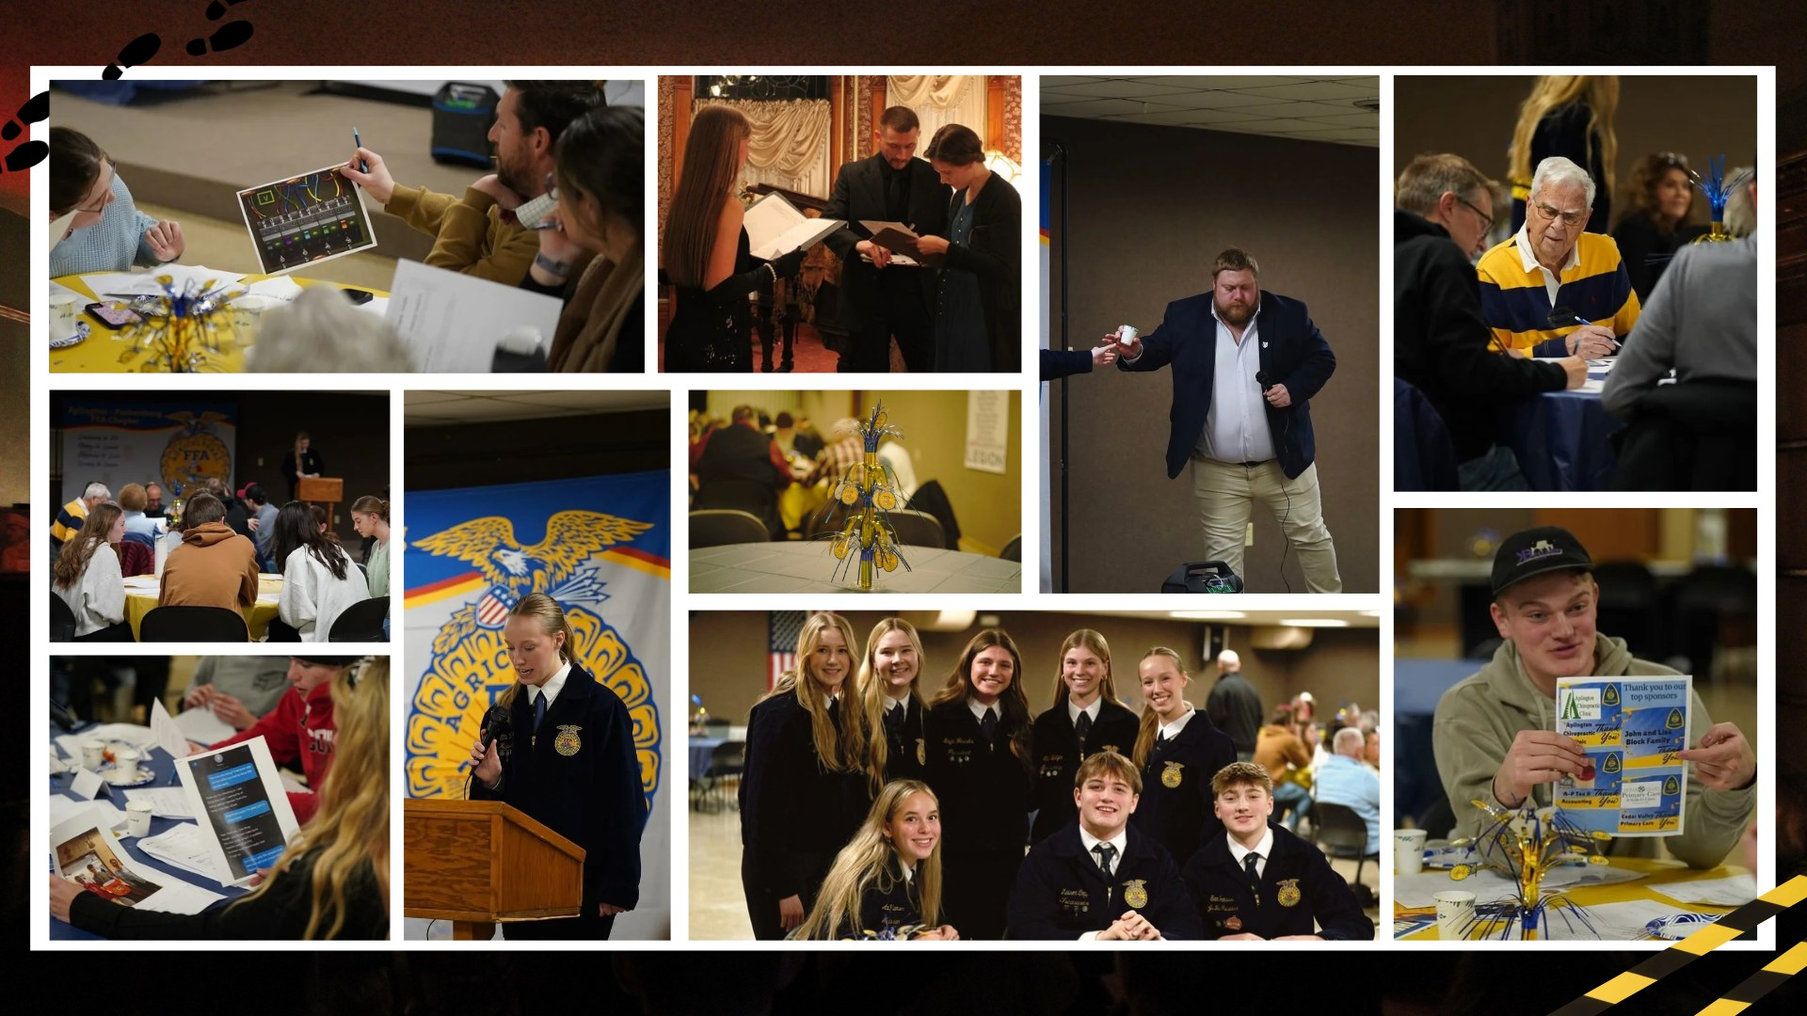
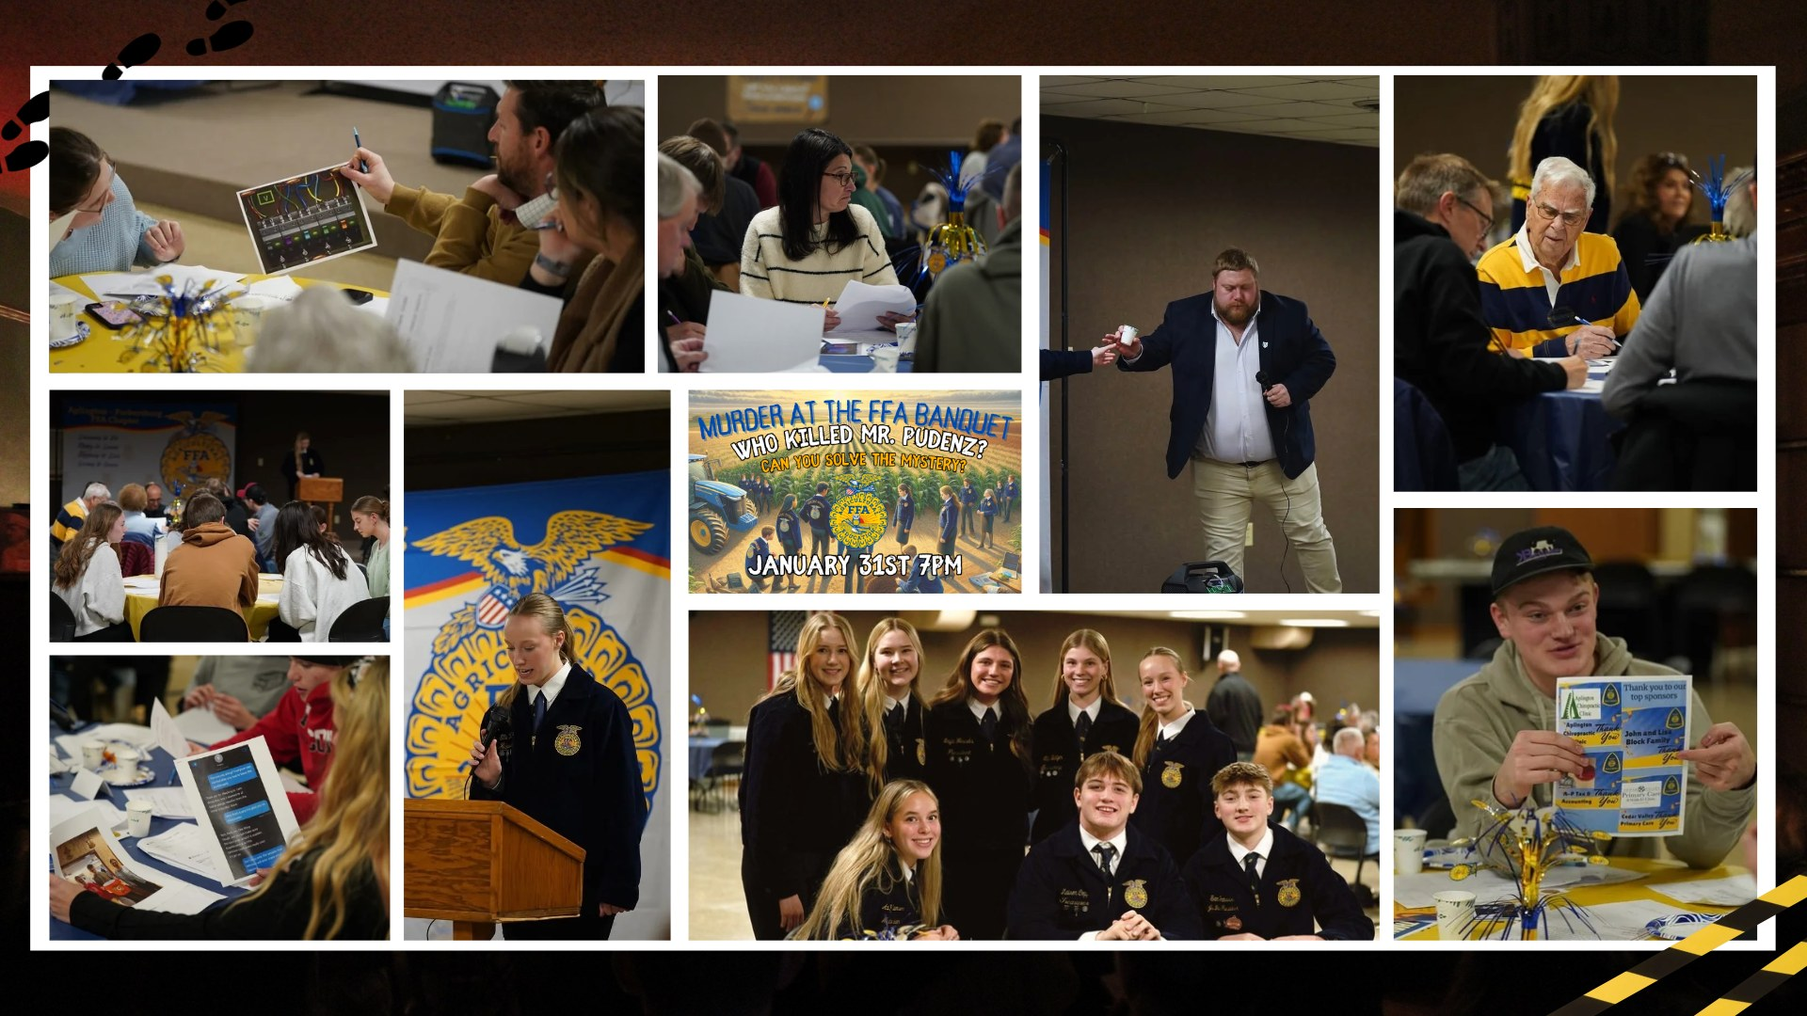
n

Changed region(s): [[0.3438, 0.0611, 0.5938, 0.6111]]

diff --git a/assets/css/style.css b/assets/css/style.css
@@ -555,7 +555,7 @@ main > section:first-child > :not(.corner-swirls) { position: relative; z-index:
   opacity: 0.85;
 }
 .swirl-r { left: auto; right: 0; transform: scaleX(-1); }
-.swirl svg { width: 100%; height: auto; overflow: visible; transform-origin: 40% 55%; animation: swirl-float 9s ease-in-out 1.8s infinite alternate; }
+.swirl svg { width: 100%; height: auto; overflow: visible; animation: swirl-float 9s ease-in-out 2.4s infinite alternate; }
 .swirl-r svg { animation-delay: 2.4s; animation-direction: alternate-reverse; }
 .swirl path { stroke-width: 2.6; }
 .swirl .sw-a { stroke: var(--peri-300); stroke-dasharray: 1; stroke-dashoffset: 0; animation: swirl-draw 2s var(--ease) 0.2s both; }
@@ -565,11 +565,14 @@ main > section:first-child > :not(.corner-swirls) { position: relative; z-index:
 .swirl .sw-dot-3 { animation-delay: 2s; }
 .swirl .sw-star { fill: var(--peri-400); stroke: none; transform-box: fill-box; transform-origin: center; animation: swirl-twinkle 3.6s ease-in-out 0.5s infinite; }
 @keyframes swirl-draw { from { stroke-dashoffset: 1; opacity: 0; } 15% { opacity: 1; } to { stroke-dashoffset: 0; opacity: 1; } }
-@keyframes swirl-float { from { transform: rotate(-3deg) translateY(0); } to { transform: rotate(3deg) translateY(6px); } }
+/* a gentle up-and-down drift only: it starts exactly where the swirl already is, so nothing jumps or tilts */
+@keyframes swirl-float { from { transform: translateY(0); } to { transform: translateY(7px); } }
 @keyframes swirl-twinkle { 0%, 100% { opacity: 0.35; transform: scale(0.85); } 50% { opacity: 1; transform: scale(1.15); } }
 @media (max-width: 560px) { .swirl { width: 84px; opacity: 0.7; } }
 /* The Work page header is short, so its swirls are smaller to fit */
-.page-hero-compact .swirl { width: 96px; top: calc(var(--header-h) + 6px); }
+/* Work page: bigger swirls */
+.page-hero-compact { padding-bottom: max(1.25rem, calc(clamp(140px, 13vw, 190px) * 0.682 - 64px)); }   /* room for the bigger swirls */
+.page-hero-compact .swirl { width: clamp(140px, 13vw, 190px); top: calc(var(--header-h) + 4px); }
 
 /* 7c. About page tests: lavender accent, stat counters, tilt cards, footprint trail */
 :root {
@@ -652,7 +655,6 @@ main > section:first-child > :not(.corner-swirls) { position: relative; z-index:
 /* The page content sits one layer above the footprints, so a print that reaches a card or text block passes behind it */
 .page-work main { position: relative; }   /* the footprint layer is sized to the whole page */
 .page-work main > section { position: relative; z-index: 1; }
-.page-work main > section.section > .container { background: var(--bg); }   /* solid, so footprints disappear behind the content instead of showing through the text */
 @media (max-width: 700px) { .trail { display: none; } }
 .print { position: absolute; fill: var(--lav-400); opacity: 0; transform: translate(-50%, -50%) scale(0.4); transition: opacity 0.5s ease, transform 0.5s var(--ease); }
 .print.on { opacity: 0.6; transform: var(--t, translate(-50%, -50%)); }
@@ -824,7 +826,8 @@ main > section:first-child > :not(.corner-swirls) { position: relative; z-index:
 /* "Let's connect" box: a bright line runs around the edge and fades behind itself */
 .cta-panel[data-trace] { position: relative; }
 .trace { position: absolute; inset: 0; width: 100%; height: 100%; overflow: visible; pointer-events: none; }
-.trace rect { animation: trace-run 7s linear infinite; filter: drop-shadow(0 0 6px rgba(255, 255, 255, 0.95)); }
+.trace { filter: drop-shadow(0 0 5px rgba(255, 255, 255, 0.85)); }
+.trace rect { animation: trace-run 7s linear infinite; }
 @keyframes trace-run { from { stroke-dashoffset: var(--l); } to { stroke-dashoffset: var(--e); } }
 
 /* 9. About ----------------------------------------------------------------- */
@@ -1320,3 +1323,43 @@ a.contact-card:hover { color: inherit; border-color: var(--peri-300); box-shadow
   text-align: center;
 }
 .notfound .big { margin: 0; font-size: clamp(5rem, 18vw, 9rem); font-weight: 800; line-height: 1; color: var(--peri-300); }
+
+/* 12b. Contact page: more color --------------------------------------------- */
+.page-contact .page-hero { position: relative; overflow: hidden; background: linear-gradient(180deg, var(--peri-50), #fbf8ff 70%, var(--bg)); }
+.page-contact .page-hero h1 { max-width: none; }
+.page-contact .page-hero .lead { max-width: none; }
+.page-contact .contact-card { position: relative; overflow: hidden; border: 1px solid transparent; }
+.page-contact .contact-card::before {            /* colored bar across the top */
+  content: ""; position: absolute; left: 0; right: 0; top: 0; height: 5px; background: var(--cc, var(--peri-600));
+}
+.page-contact .contact-card::after {             /* big soft circle in the corner */
+  content: ""; position: absolute; right: -46px; bottom: -46px; width: 150px; height: 150px; border-radius: 50%;
+  background: var(--cc, var(--peri-600)); opacity: 0.12; transition: transform 0.5s var(--ease), opacity 0.3s; pointer-events: none;
+}
+.page-contact .contact-card:hover::after { transform: scale(1.35); opacity: 0.18; }
+.page-contact .contact-card > * { position: relative; z-index: 1; }
+.page-contact .contact-card h2 { color: var(--cc-ink, var(--peri-700)); }
+.page-contact .contact-card .icon-box { width: 52px; height: 52px; border-radius: 16px; color: var(--cc-ink); background: #fff; box-shadow: 0 6px 16px -8px var(--cc); transform: rotate(-6deg); transition: transform 0.4s var(--ease); }
+.page-contact .contact-card:hover .icon-box { transform: rotate(6deg) scale(1.1); }
+.page-contact .contact-card .go { color: var(--cc-ink); }
+.cc-email    { --cc: #5a66d6; --cc-ink: #4651b8; background: linear-gradient(160deg, #eef0ff, #ffffff 70%); border-color: #d9ddfb; }
+.cc-linkedin { --cc: #2d9bd6; --cc-ink: #17719f; background: linear-gradient(160deg, #e6f5fd, #ffffff 70%); border-color: #cbe8f7; }
+.cc-resume   { --cc: #9a7be0; --cc-ink: #6f4fc2; background: linear-gradient(160deg, #f1ebff, #fff4f9 85%); border-color: #e1d6fa; }
+.page-contact .cc-email .btn-outline { border-color: #b9c0f7; }
+
+.details-band { position: relative; overflow: hidden; background: linear-gradient(180deg, #f7f7fd, #fbf6ff); }
+.details-band::before, .details-band::after { content: ""; position: absolute; border-radius: 50%; pointer-events: none; }
+.details-band::before { width: 280px; height: 280px; left: -110px; top: -90px; background: #e9e4ff; opacity: 0.7; }
+.details-band::after { width: 200px; height: 200px; right: -70px; bottom: -70px; background: #ffe3ee; opacity: 0.7; }
+.details-band .container { position: relative; z-index: 1; }
+.detail-tiles { list-style: none; margin: 0; padding: 0; display: grid; gap: 1.25rem; grid-template-columns: 1fr; }
+@media (min-width: 760px) { .detail-tiles { grid-template-columns: repeat(3, 1fr); } }
+.dt { position: relative; display: grid; gap: 0.3rem; align-content: start; padding: 1.5rem 1.4rem; border-radius: var(--radius-lg); border: 1px solid var(--dt-line); background: var(--dt-bg); transition: transform 0.3s var(--ease), box-shadow 0.3s; }
+.dt:hover { transform: translateY(-4px) rotate(-0.6deg); box-shadow: var(--shadow); }
+.dt .icon-box { width: 46px; height: 46px; border-radius: 14px; background: #fff; color: var(--dt-ink); box-shadow: 0 6px 14px -8px var(--dt-ink); margin-bottom: 0.6rem; transform: rotate(-6deg); transition: transform 0.4s var(--ease); }
+.dt:hover .icon-box { transform: rotate(6deg) scale(1.1); }
+.dt-label { font-size: var(--fs-sm); font-weight: 700; letter-spacing: 0.06em; text-transform: uppercase; color: var(--dt-ink); }
+.dt strong { font-size: var(--fs-md); font-weight: 600; color: var(--ink); line-height: 1.4; }
+.dt-place   { --dt-bg: #fff1f6; --dt-line: #fbd5e4; --dt-ink: #c2477a; }
+.dt-looking { --dt-bg: #eef0ff; --dt-line: #d9ddfb; --dt-ink: #4651b8; }
+.dt-when    { --dt-bg: #e9f8f1; --dt-line: #c7ecdc; --dt-ink: #1f8a63; }

diff --git a/contact.html b/contact.html
@@ -17,7 +17,7 @@
   <link rel="stylesheet" href="assets/css/style.css">
   <script>document.documentElement.className = "js";</script>
 </head>
-<body>
+<body class="page-contact">
   <a class="skip-link" href="#main">Skip to content</a>
 
   <header class="site-header">
@@ -55,12 +55,13 @@
       <div class="container">
         <p class="label">Contact</p>
         <h1>Let’s connect</h1>
+        <p class="lead">Internships, volunteer work, story ideas or just a hello. I’d love to hear from you.</p>
       </div>
     </section>
 
     <section class="section" style="padding-top:1rem" aria-label="Ways to reach me">
       <div class="container contact-grid">
-        <div class="card contact-card" data-reveal>
+        <div class="card contact-card cc-email" data-reveal>
           <span class="icon-box"><svg viewBox="0 0 24 24" fill="none" stroke="currentColor" stroke-width="2" stroke-linecap="round" stroke-linejoin="round" aria-hidden="true"><rect x="3" y="5" width="18" height="14" rx="2"/><path d="M3 7l9 6 9-6"/></svg></span>
           <h2>Email</h2>
           <p class="value"><a href="mailto:emma.haan2530@gmail.com" data-site="email" data-site-text>emma.haan2530@gmail.com</a></p>
@@ -69,13 +70,13 @@
             <button class="btn btn-small btn-outline" type="button" data-copy="email"><svg viewBox="0 0 24 24" fill="none" stroke="currentColor" stroke-width="2" stroke-linecap="round" stroke-linejoin="round" aria-hidden="true"><rect x="9" y="9" width="12" height="12" rx="2"/><path d="M5 15H4a1 1 0 0 1-1-1V4a1 1 0 0 1 1-1h10a1 1 0 0 1 1 1v1"/></svg> Copy</button>
           </div>
         </div>
-        <a class="card contact-card" href="https://www.linkedin.com/in/emma-haan-779314435/" data-site="linkedin" target="_blank" rel="noopener" data-reveal style="--i:1">
+        <a class="card contact-card cc-linkedin" href="https://www.linkedin.com/in/emma-haan-779314435/" data-site="linkedin" target="_blank" rel="noopener" data-reveal style="--i:1">
           <span class="icon-box"><svg viewBox="0 0 24 24" fill="currentColor" aria-hidden="true"><path d="M4.98 3.5a2.5 2.5 0 1 1 0 5 2.5 2.5 0 0 1 0-5zM3 9.75h4v11H3zM9.5 9.75h3.8v1.5h.06c.53-1 1.83-2.06 3.77-2.06 4.03 0 4.77 2.65 4.77 6.1v6.46h-4v-5.73c0-1.37-.03-3.13-1.9-3.13-1.91 0-2.2 1.49-2.2 3.03v5.83h-4z"/></svg></span>
           <h2>LinkedIn</h2>
           <p class="value" data-site="linkedinLabel">linkedin.com/in/emma-haan-779314435</p>
           <span class="go">Connect with me →</span>
         </a>
-        <a class="card contact-card" href="assets/files/Emma_Haan_Resume.pdf" data-site="resume" target="_blank" rel="noopener" data-reveal style="--i:2">
+        <a class="card contact-card cc-resume" href="assets/files/Emma_Haan_Resume.pdf" data-site="resume" target="_blank" rel="noopener" data-reveal style="--i:2">
           <span class="icon-box"><svg viewBox="0 0 24 24" fill="none" stroke="currentColor" stroke-width="2" stroke-linecap="round" stroke-linejoin="round" aria-hidden="true"><path d="M14 3H6a2 2 0 0 0-2 2v14a2 2 0 0 0 2 2h12a2 2 0 0 0 2-2V9z"/><path d="M14 3v6h6M9 14h6M9 17h4"/></svg></span>
           <h2>Resume</h2>
           <p class="value">Click to view my resume</p>
@@ -84,36 +85,29 @@
       </div>
     </section>
 
-    <section class="section section-soft" aria-label="Details and message">
-      <div class="container grid-2">
-        <div data-reveal>
+    <section class="section section-soft details-band" aria-label="Good to know">
+      <div class="container">
+        <div class="section-head" data-reveal>
           <p class="label">Good to know</p>
-          <h2>Details</h2>
-          <ul class="info-list">
-            <li><span>Location</span><strong data-site="location">City, State</strong></li>
-            <li><span>Looking for</span><strong>Internships or volunteer opportunities</strong></li>
-            <li><span>Available</span><strong>Summer 2027</strong></li>
-          </ul>
+          <h2>A few quick details</h2>
         </div>
-        <form class="card form" data-contact-form data-reveal style="--i:1">
-          <h2 style="font-size:var(--fs-xl);margin:0">Send a quick message</h2>
-          <div class="form-row">
-            <div class="field"><label for="f-name">Name</label><input id="f-name" name="name" type="text" autocomplete="name" required></div>
-            <div class="field"><label for="f-company">Company <span style="font-weight:400;color:var(--muted)">(optional)</span></label><input id="f-company" name="company" type="text" autocomplete="organization"></div>
-          </div>
-          <div class="form-row">
-            <div class="field"><label for="f-email">Email</label><input id="f-email" name="email" type="email" autocomplete="email" required></div>
-            <div class="field"><label for="f-topic">Topic</label>
-              <select id="f-topic" name="topic"><option>Job opportunity</option><option>Internship</option><option>Project</option><option>Just saying hi</option></select>
-            </div>
-          </div>
-          <div class="field"><label for="f-message">Message</label><textarea id="f-message" name="message" rows="5" required></textarea></div>
-          <input type="text" name="_honey" tabindex="-1" autocomplete="off" aria-hidden="true" style="position:absolute;left:-9999px;width:1px;height:1px;opacity:0">
-          <div class="btn-row" style="align-items:center">
-            <button class="btn" type="submit">Send message <svg class="i-right" viewBox="0 0 24 24" fill="none" stroke="currentColor" stroke-width="2" stroke-linecap="round" stroke-linejoin="round" aria-hidden="true"><path d="M5 12h14M13 6l6 6-6 6"/></svg></button>
-            <p class="form-note" role="status" aria-live="polite" data-form-status>Your message goes straight to my inbox.</p>
-          </div>
-        </form>
+        <ul class="detail-tiles">
+          <li class="dt dt-place" data-reveal>
+            <span class="icon-box"><svg viewBox="0 0 24 24" fill="none" stroke="currentColor" stroke-width="2" stroke-linecap="round" stroke-linejoin="round" aria-hidden="true"><path d="M12 21s-7-6.2-7-11.5A7 7 0 0 1 19 9.5C19 14.8 12 21 12 21z"/><circle cx="12" cy="9.5" r="2.5"/></svg></span>
+            <span class="dt-label">Location</span>
+            <strong data-site="location">City, State</strong>
+          </li>
+          <li class="dt dt-looking" data-reveal style="--i:1">
+            <span class="icon-box"><svg viewBox="0 0 24 24" fill="none" stroke="currentColor" stroke-width="2" stroke-linecap="round" stroke-linejoin="round" aria-hidden="true"><circle cx="11" cy="11" r="7"/><path d="M20 20l-4-4"/></svg></span>
+            <span class="dt-label">Looking for</span>
+            <strong>Internships or volunteer opportunities</strong>
+          </li>
+          <li class="dt dt-when" data-reveal style="--i:2">
+            <span class="icon-box"><svg viewBox="0 0 24 24" fill="none" stroke="currentColor" stroke-width="2" stroke-linecap="round" stroke-linejoin="round" aria-hidden="true"><rect x="3" y="5" width="18" height="16" rx="2"/><path d="M3 10h18M8 3v4M16 3v4"/></svg></span>
+            <span class="dt-label">Available</span>
+            <strong>Summer 2027</strong>
+          </li>
+        </ul>
       </div>
     </section>
   </main>

diff --git a/assets/js/projects.js b/assets/js/projects.js
@@ -73,6 +73,29 @@ window.PROJECTS = [
     ]
   },
   {
+    id: "stolen",
+    title: "Stolen",
+    category: "Short Film",
+    year: "2026",
+    featured: true,
+    tagline: "A short film where a group of friends go on a mission to get back what was stolen from them.",
+    blurb:
+      "Stolen is a student-made short film that I wrote, helped direct and acted in. Lennon calls his friends together to tell them that something was stolen from him, and according to Lennon it is sitting in a girl named Lisa\u2019s house. The group sets out on a mission to break in and take it back. As head writer I wrote the script, shaping the story and characters, and I worked with the cast as a director while also performing on screen.",
+    results: [
+      "Received the highest rating at two film contests",
+      "Received all-state recognition from the Iowa High School Speech Association"
+    ],
+    role: "Head Writer, Director & Actor",
+    client: "Aplington-Parkersburg Speech Team",
+    skills: ["Scriptwriting", "Leadership", "Managing Actors", "Storyboarding"],
+    cover: "https://i.ytimg.com/vi/ekTW2sTzFkQ/maxresdefault.jpg",
+    coverFallback: "https://i.ytimg.com/vi/ekTW2sTzFkQ/hqdefault.jpg",
+    aspect: "16 / 9",
+    slides: [
+      { embed: "https://www.youtube-nocookie.com/embed/ekTW2sTzFkQ?rel=0", alt: "Stolen, a student short film written by Emma Haan" }
+    ]
+  },
+  {
     id: "wolf-mansion",
     title: "DECA Community Giving Project - Murder at Wolf Mansion",
     tabTitle: "DECA PMCG Project",
@@ -118,29 +141,6 @@ window.PROJECTS = [
     ]
   },
   {
-    id: "stolen",
-    title: "Stolen",
-    category: "Short Film",
-    year: "2026",
-    featured: true,
-    tagline: "A short film where a group of friends go on a mission to get back what was stolen from them.",
-    blurb:
-      "Stolen is a student-made short film that I wrote, helped direct and acted in. Lennon calls his friends together to tell them that something was stolen from him, and according to Lennon it is sitting in a girl named Lisa\u2019s house. The group sets out on a mission to break in and take it back. As head writer I wrote the script, shaping the story and characters, and I worked with the cast as a director while also performing on screen.",
-    results: [
-      "Received the highest rating at two film contests",
-      "Received all-state recognition from the Iowa High School Speech Association"
-    ],
-    role: "Head Writer, Director & Actor",
-    client: "Aplington-Parkersburg Speech Team",
-    skills: ["Scriptwriting", "Leadership", "Managing Actors", "Storyboarding"],
-    cover: "https://i.ytimg.com/vi/ekTW2sTzFkQ/maxresdefault.jpg",
-    coverFallback: "https://i.ytimg.com/vi/ekTW2sTzFkQ/hqdefault.jpg",
-    aspect: "16 / 9",
-    slides: [
-      { embed: "https://www.youtube-nocookie.com/embed/ekTW2sTzFkQ?rel=0", alt: "Stolen, a student short film written by Emma Haan" }
-    ]
-  },
-  {
     id: "ffa-mystery",
     title: "Murder at the FFA Banquet",
     category: "Murder Mystery Event",
@@ -158,7 +158,7 @@ window.PROJECTS = [
     cover: "assets/img/projects/ffa-mystery/cover.jpg",
     aspect: "17 / 22",
     slides: [
-      { src: "assets/img/projects/ffa-mystery/cover.jpg", alt: "Collage of photos from the Murder at the FFA Banquet: guests at dinner tables comparing clues, the FFA officer team who played the suspects, and an officer speaking at the podium", aspect: "16 / 9" },
+      { src: "assets/img/projects/ffa-mystery/cover.jpg", alt: "Collage of photos from the Murder at the FFA Banquet: guests at dinner tables comparing clues, the event poster, an actor playing a suspect, the FFA officer team and an officer speaking at the podium", aspect: "16 / 9" },
       { src: "assets/img/projects/ffa-mystery/clue-21.jpg", alt: "Example clue: internship application", label: "Examples clues" },
       { src: "assets/img/projects/ffa-mystery/clue-23.jpg", alt: "Example clue: judge scoring rubric from a District FFA Public Speaking contest", label: "Examples clues" },
       { src: "assets/img/projects/ffa-mystery/clue-25.jpg", alt: "Example clue: Butler County EMS incident summary", label: "Examples clues" },

diff --git a/assets/js/main.js b/assets/js/main.js
@@ -328,18 +328,23 @@
       trail.innerHTML = "";
       prints = [];
       var H = main.offsetHeight, rand = rng(11), y = 220;
+      // the empty strip beside the page content: the footprints are sized to fit inside it
+      var cont = $("main .container"), gutter = 40;
+      if (cont) gutter = cont.getBoundingClientRect().left + (parseFloat(getComputedStyle(cont).paddingLeft) || 0);
+      var sMax = Math.max(0.28, Math.min(0.6, (gutter - 14) / 60));
 
       while (y < H - 120) {
-        var D = 150 + rand() * 220;                 // height of this arc
-        if (y + D > H - 10) D = Math.max(110, H - 10 - y);   // the last arc finishes at the bottom of the page
-        var scale = 0.65 + rand() * 0.6;            // each arc has its own print size
-        var spacing = (38 + rand() * 48) * scale;   // ...and its own walking pace
+        var D = 70 + rand() * 130;                  // height of this arc
+        if (y + D > H - 10) D = Math.max(60, H - 10 - y);    // the last arc finishes at the bottom of the page
+        var scale = sMax * (0.6 + rand() * 0.4);    // each arc has its own (small) print size
+        var spacing = (62 + rand() * 60) * scale;   // ...and its own walking pace
         var t0 = -Math.PI / 2 + (rand() < 0.35 ? rand() * 0.55 : 0);
         var t1 = Math.PI / 2 - (rand() < 0.35 ? rand() * 0.55 : 0);
         var reverse = rand() < 0.4;
-        var gap = 30 + rand() * 150;
-        var x0 = 8 + 14 * scale;                    // arcs start near the screen edge
-        var bulge = D * 0.5;                        // a true semicircle; where it meets page content it simply passes behind it
+        var gap = 20 + rand() * 110;
+        var x0 = 3 + 27 * scale;                    // arcs start near the screen edge
+        var bulge = Math.min(D * 0.5, gutter - x0 - 17 * scale - 6);   // as deep as the side strip allows
+        if (bulge < 6) { y += 40; continue; }
         var cy = y + D / 2;
         var pts = [];
         for (var k = 0; k <= 90; k++) {
@@ -402,21 +407,23 @@
       svg.setAttribute("class", "trace");
       svg.setAttribute("aria-hidden", "true");
       var rects = [];
-      // a bright head with a tail that gets fainter and longer behind it
-      [[3, 1], [8, 0.75], [16, 0.55], [26, 0.4], [40, 0.28]].forEach(function (s) {
+      // a bright head with a long tail that fades out smoothly: many thin layers, each a little longer and fainter
+      var STEPS = 40, TAIL = 46;
+      for (var n = 0; n < STEPS; n++) {
+        var len = 1.5 + (TAIL - 1.5) * Math.pow((n + 1) / STEPS, 1.15);
         var r = document.createElementNS(NS, "rect");
         r.setAttribute("pathLength", "100");
         r.setAttribute("fill", "none");
         r.setAttribute("stroke", "#fff");
         r.setAttribute("stroke-width", "3.5");
         r.setAttribute("stroke-linecap", "round");
-        r.style.opacity = s[1];
-        r.style.setProperty("--l", s[0]);
-        r.style.setProperty("--e", s[0] - 100);
-        r.style.strokeDasharray = s[0] + " " + (100 - s[0]);
+        r.style.opacity = 0.075;
+        r.style.setProperty("--l", len.toFixed(2));
+        r.style.setProperty("--e", (len - 100).toFixed(2));
+        r.style.strokeDasharray = len.toFixed(2) + " " + (100 - len).toFixed(2);
         svg.appendChild(r);
         rects.push(r);
-      });
+      }
       box.appendChild(svg);
       function size() {
         var w = box.offsetWidth, h = box.offsetHeight;
